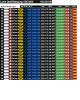
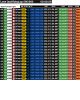
Added option to show Position Gain Loss in race.

diff --git a/Plugin/SettingsControl.xaml b/Plugin/SettingsControl.xaml
@@ -169,6 +169,13 @@
                             </styles:SHToggleCheckbox>
                         </StackPanel>
 
+                        <styles:SHToggleCheckbox 
+                            ToolTip="Show the number of positions gained or lost in a race" 
+                            HorizontalAlignment="Left" Margin="0,0,4,8"
+                            IsChecked="{Binding Plugin.Modules[StandingsModule].Settings.PositionChangeVisible, Mode=TwoWay, UpdateSourceTrigger=PropertyChanged}">
+                            Show position gain/loss in race
+                        </styles:SHToggleCheckbox>
+
                         <StackPanel Orientation="Horizontal">
                             <styles:SHToggleCheckbox 
                                 ToolTip="The delta column will be relative to the player's time rather than the class leader's time" 

diff --git a/Plugin/Modules/Driver.cs b/Plugin/Modules/Driver.cs
@@ -148,6 +148,7 @@ namespace benofficial2.Plugin
         private RelativeModule _relativeModule = null;
 
         private SessionState _sessionState = new SessionState();
+        private bool _qualResultsUpdated = false;
 
         public const int MaxDrivers = 64;
 
@@ -257,6 +258,7 @@ namespace benofficial2.Plugin
                 PlayerTeamIncidentCount = 0;
                 PlayerIRatingChange = 0.0f;
                 BlankHighlightedDriver();
+                _qualResultsUpdated = false;
             }
 
             UpdateDrivers(ref data);
@@ -284,7 +286,7 @@ namespace benofficial2.Plugin
                 Opponent opponent = data.NewData.Opponents[i];
                 if (!Drivers.TryGetValue(opponent.CarNumber, out Driver driver))
                 {
-                    Debug.Assert(false);
+                    // Can happen when spectating a race and driving, the player car has no car number.
                     continue;
                 }
 
@@ -511,8 +513,8 @@ namespace benofficial2.Plugin
 
         private void UpdateQualResult(ref GameData data)
         {
-            // Only needed before the race start to show qual position
-            if (!(_sessionModule.Race && !_sessionModule.RaceStarted))
+            // Optimization: Only update the qualifying results once before the race starts.
+            if (_qualResultsUpdated || !_sessionModule.Race)
                 return;
 
             RawDataHelper.TryGetSessionData<List<object>>(ref data, out List<object> qualResults, "QualifyResultsInfo", "Results");
@@ -534,6 +536,7 @@ namespace benofficial2.Plugin
                     driver.BestLapTime = fastestTime > 0 ? TimeSpan.FromSeconds(fastestTime) : TimeSpan.Zero;
                 }
 
+                _qualResultsUpdated = true;
                 return;
             }
 
@@ -559,6 +562,8 @@ namespace benofficial2.Plugin
                     driver.QualPositionInClass = positionInClass + 1;
                     driver.BestLapTime = fastestTime > 0 ? TimeSpan.FromSeconds(fastestTime) : TimeSpan.Zero;
                 }
+
+                _qualResultsUpdated = true;
             }
         }
 
@@ -639,7 +644,7 @@ namespace benofficial2.Plugin
                     Opponent opponent = opponents[i];
                     if (!Drivers.TryGetValue(opponent.CarNumber, out Driver driver))
                     {
-                        Debug.Assert(false);
+                        // Can happen when spectating a race and driving, the player car has no car number.
                         continue;
                     }
 

diff --git a/Plugin/Modules/Standings.cs b/Plugin/Modules/Standings.cs
@@ -37,6 +37,7 @@ namespace benofficial2.Plugin
         public int LeadFocusedRows { get; set; } = 3;
         public int MaxRowsOtherClasses { get; set; } = 3;
         public int MaxRowsPlayerClass { get; set; } = 10;
+        public bool PositionChangeVisible { get; set; } = false;
         public bool CountryFlagVisible { get; set; } = true;
         public bool CarLogoVisible { get; set; } = true;
         public bool SafetyRatingVisible { get; set; } = true;
@@ -178,6 +179,7 @@ namespace benofficial2.Plugin
             plugin.AttachDelegate(name: $"Standings.LeadFocusedRows", valueProvider: () => Settings.LeadFocusedRows);
             plugin.AttachDelegate(name: $"Standings.MaxRowsPlayerClass", valueProvider: () => Settings.MaxRowsPlayerClass);
             plugin.AttachDelegate(name: $"Standings.MaxRowsOtherClasses", valueProvider: () => Settings.MaxRowsOtherClasses);
+            plugin.AttachDelegate(name: $"Standings.PositionChangeVisible", valueProvider: () => Settings.PositionChangeVisible);
             plugin.AttachDelegate(name: $"Standings.CountryFlagVisible", valueProvider: () => Settings.CountryFlagVisible);
             plugin.AttachDelegate(name: $"Standings.CarLogoVisible", valueProvider: () => CarLogoVisible);
             plugin.AttachDelegate(name: $"Standings.SafetyRatingVisible", valueProvider: () => Settings.SafetyRatingVisible);
